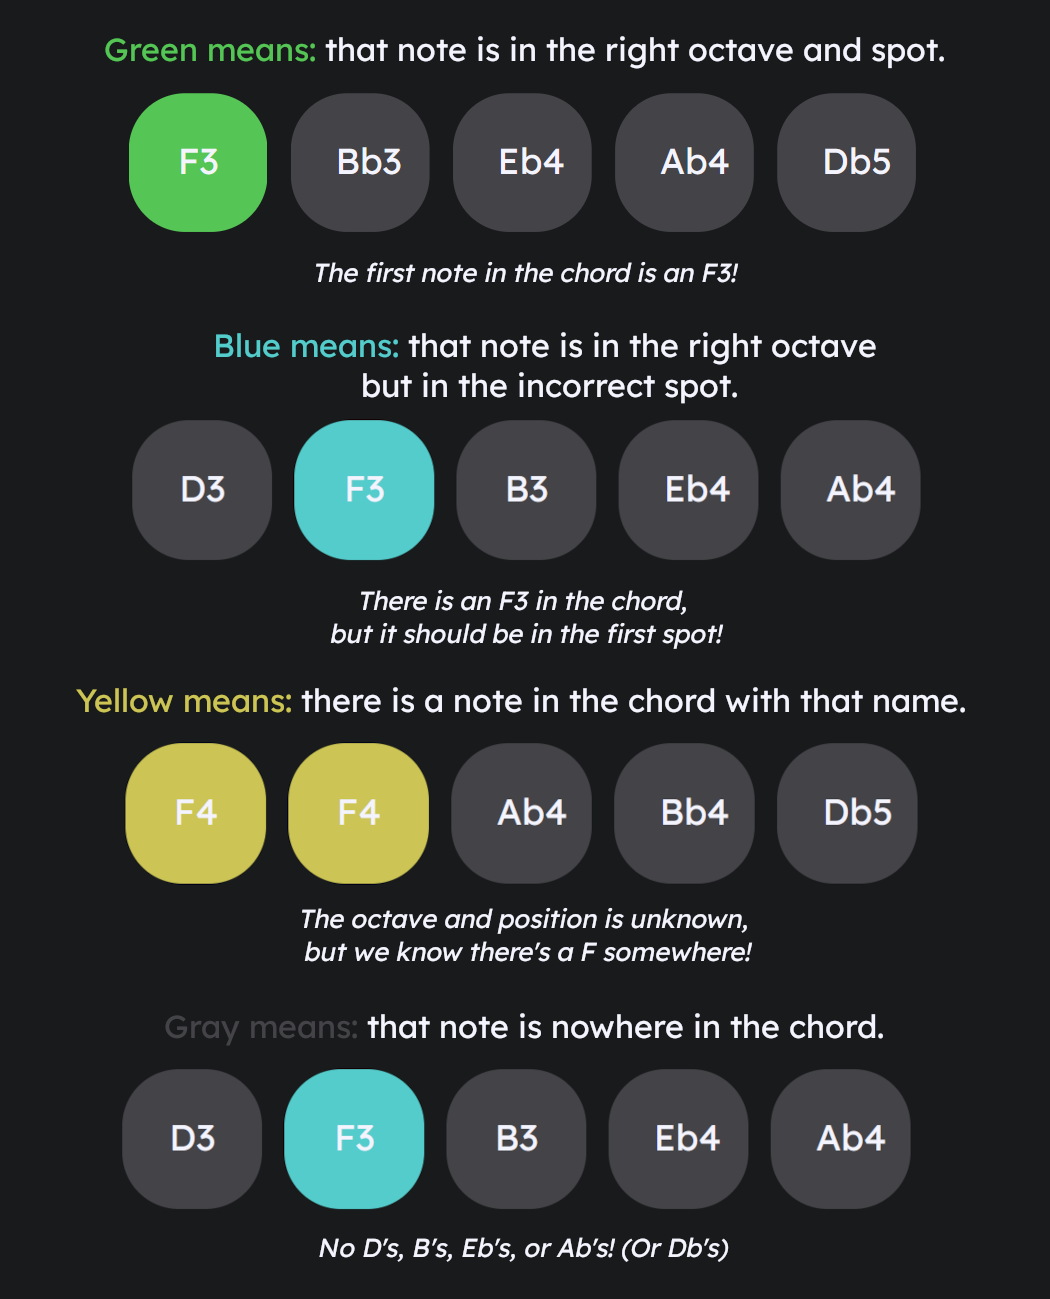
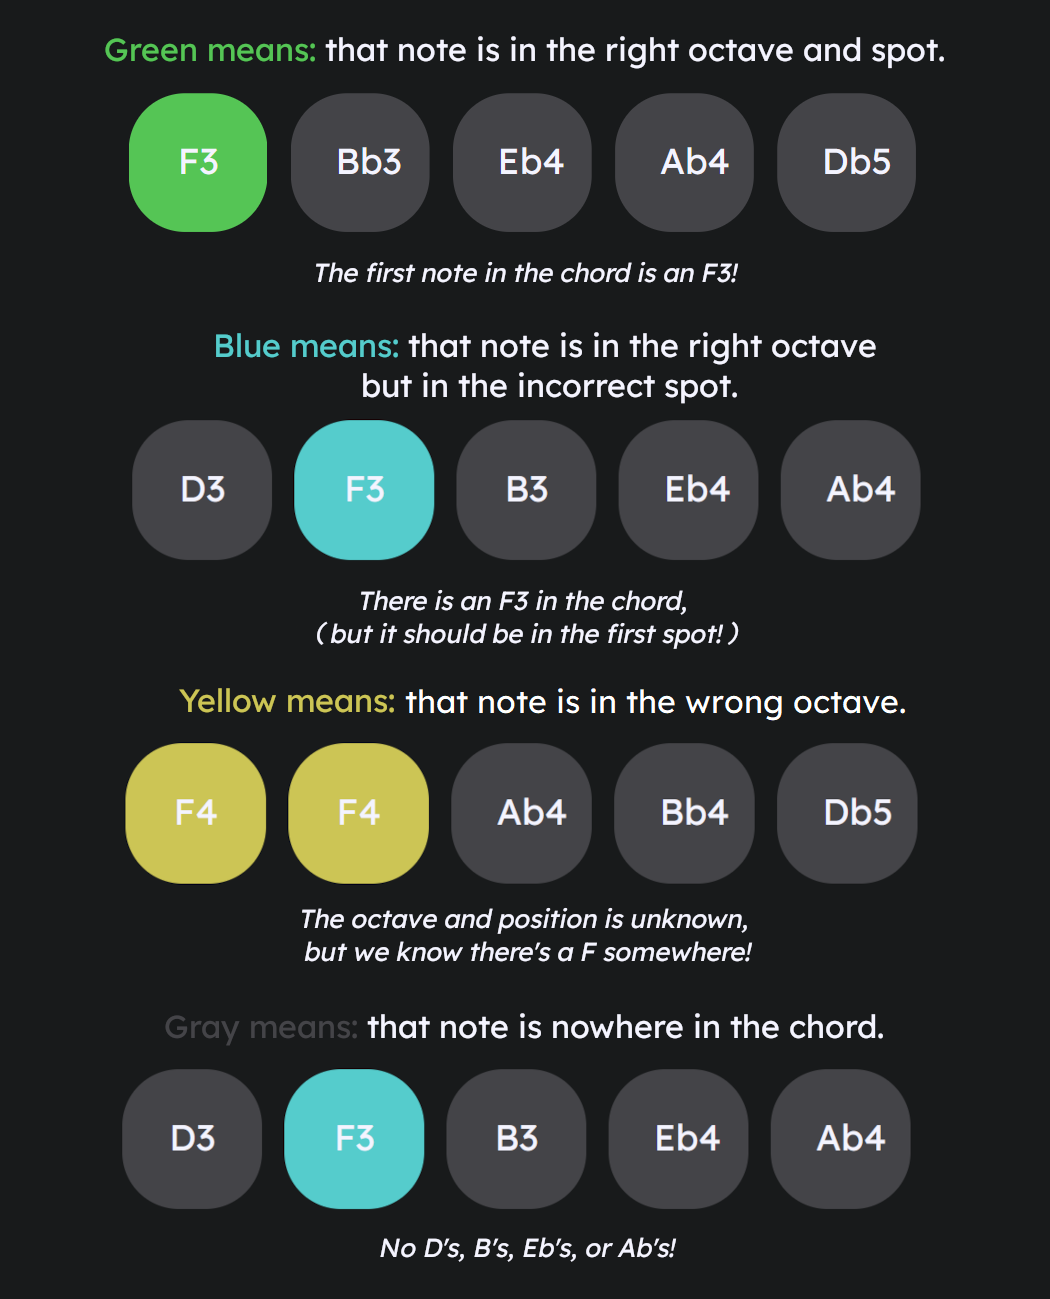
jazz chordle, stylize and improve win screen

Changed region(s): [[0.061, 0.5235, 0.9143, 0.5543], [0.3048, 0.9546, 0.701, 0.9854]]

diff --git a/games/Chordle/scripts/mainScript.js b/games/Chordle/scripts/mainScript.js
@@ -6,24 +6,25 @@ guesses = [
 	[]
 ];
 
+// chords must be written in flats (no Cb or Fb)
 answers = [
-	['F3','C4','G4','A4','E5'],	// Fmaj9 very open voicing - spirited away
-	['B3', 'Bb4', 'Db5', 'Eb5', 'Gb5'],	// Bmaj9 - giant steps
-	['C3', 'G3', 'D4', 'A4', 'E5'],	// stack of fifths
-	['Db3', 'G3', 'F4', 'B4', 'Eb5'],	// Db9b5
-	['E3', 'A3', 'D4', 'G4', 'B4'],	// Em11 - famous so what voicing
-	['Bb3', 'Eb4', 'C5', 'F5', 'A5'],	// Eb7#11
-	['F3', 'A3', 'Eb4', 'Ab4', 'Db5'],	// F7(#9, b13)
-	['Ab3', 'Db4', 'Gb4', 'B4', 'E5'],	// stack of fourths
-	['E3', 'G4', 'B4', 'Eb5', 'Gb5'],	// EmM9 - james bond
-	['Eb3', 'G4', 'Bb4', 'Db5', 'E5'],	// E7b9
-	['Ab4', 'Db5', 'Eb5', 'G5', 'Bb5'], // Am9sus4
-	['Gb3', 'E4', 'Ab4', 'Bb4', 'D5'],	// Gb9#5
-	['Db3', 'Bb4', 'E4', 'G4', 'C5'],	// Petrushka chord but without the bass note cause it's a 6 note chord lol
-	['G3', 'F4', 'A4', 'C5', 'E5'],	// G13 - one of my favorite chords ever	
-	['D4', 'F4', 'Ab4', 'C5', 'E5'], // Dm9b5
-	['C3', 'Bb3', 'E4', 'Ab4', 'D5'],	// C9#5
-	['G3', 'Bb3', 'Db4', 'F4', 'Gb5']	// the jp chord (Gm7b5b9)
+	['F3' ,	'C4' ,	'G4' ,	'A4' ,	'E5' 	,"The famous Fmaj9 from spirited away"],
+	['B3' ,	'Bb4',	'Db5',	'Eb5',	'Gb5' 	,"Bmaj9 - giant steps"],
+	['C3' ,	'G3' , 	'D4' , 	'A4' , 	'E5' 	,"C6/9 - stack of fifths"],
+	['Db3', 'G3' , 	'F4' , 	'B4' , 	'Eb5' 	,"Db9b5"],
+	['E3' ,	'A3' , 	'D4' , 	'G4' , 	'B4' 	,"Em11 - so what voicing"],
+	['Bb3', 'Eb4',	'C5' , 	'F5' , 	'A5' 	,"Eb7#11"],
+	['F3' ,	'A3' , 	'Eb4',	'Ab4',	'Db5' 	,"F7(#9, b13)"],
+	['Ab3', 'Db4',	'Gb4',	'B4' , 	'E5' 	,"Abm11? - Stack of fourths"],
+	['E3' ,	'G4' , 	'B4' , 	'Eb5',	'Gb5' 	,"EmM9 - James Bond"],
+	['Eb3', 'G4' , 	'Bb4',	'Db5',	'E5' 	,"E7b9"],
+	['Ab4', 'Db5',	'Eb5',	'G5' , 	'Bb5' 	,"Am9sus4"],
+	['Gb3', 'E4' , 	'Ab4',	'Bb4',	'D5' 	,"Gb9#5"],
+	['Gb3', 'Bb3',	'E4' , 	'G4' , 	'C5' 	,"C/F# or F#7(b9,#11)- Petrushka chord (but without the C# cause it's actually a 6 note chord lol)"],
+	['G3' ,	'F4' , 	'A4' , 	'C5' , 	'E5' 	,"G13"],
+	['D4' ,	'F4' , 	'Ab4',	'C5' , 	'E5' 	,"Dm9b5"],
+	['C3' ,	'Bb3',	'E4' , 	'Ab4',	'D5' 	,"C9#5"],
+	['G3' ,	'Bb3',	'Db4',	'F4' , 	'Gb5' 	,"Gm7b5b9"]
 	//['', '', '', '', '']	
 ];
 
@@ -36,11 +37,17 @@ var differenceInTime = today.getTime() - dayOfLaunch.getTime();
 var differenceInDays = Math.floor(differenceInTime / (1000 * 3600 * 24));
 
 // if 4 days since launch, choose 4th chord, use modulus to through chords infinitely
-var currentAnswer = differenceInDays % answers.length;
+var currentAnswer = 12
 var x = 0;
 var y = 0;
 
 var COLUMNS = 5;
+
+answer = "";
+let temp_answer;
+temp_answer = answers[currentAnswer].slice();	// shallow copy!
+temp_answer.pop() // remove comment
+answer = temp_answer.toString();
 
 var colorCorrect = '#55c555';
 var colorRightOctave = '#55cccc';
@@ -130,11 +137,12 @@ function submit(){
 					key.style.fill = colorWrong;
 				});
 			}
-		} 
-		
+		}
+
+		let s = guesses[y].toString()
 		// if all correct
-		if(guesses[y].toString() == answers[currentAnswer].toString()){
-			win();
+		if(guesses[y].toString() === answer){
+			win(answers[currentAnswer][5]);
 			y = 99;	// set out of bounds because u won
 		}
 		x = 0;
@@ -142,59 +150,13 @@ function submit(){
 	}
 }
 
-function win(){
-	alert("yay u win");
+function win(comment){
+	alert("You got it! That chord was: " + comment);
 }
 
-document.getElementById("share").addEventListener("click", share);
-function share(){
-	var msg = "";
-	
-	var square_list = document.querySelectorAll('.roundedSquare');
-	var square_array = [...square_list]; // convert to array
-	square_array.forEach(square => {
-		let color = square.style.color;
-		if(color == colorCorrect){
-			msg = msg.concat('gren');
-			alert("gren");
-		}
-		
-		/*
-		switch (square){
-			case colorCorrect:
-				msg = msg.concat('gren');
-				alert("gren");
-				break;
-			default:
-				msg += "gray";
-		}
-		*/
-	});
-	alert(msg);
 
-	
-	/*
-	document.querySelectorAll('.roundedSquare').forEach(item => {
-		if(item.style.background == colorCorrect){
-			alert("green");
-		}
-		
-		
-		switch (item){
-			case colorCorrect:
-				msg += 'gren';
-				alert("gren");
-				break;
-			default:
-				msg += "gray";
-		}
-	});
-	*/
-	
-}
-
-document.getElementById("flip").addEventListener("click", flip);
-function flip(){
+document.getElementById("respell").addEventListener("click", respell);
+function respell(){
 	var note = document.getElementById((y + 1) + '-' + (x)).innerText;
 	// ex: note = Ab4 -> noteName = Ab; octave = 4;
 	var noteName = note.slice(0, -1);
@@ -214,4 +176,52 @@ function flip(){
 	else {
 		document.getElementById((y + 1) + '-' + (x)).innerText = result[0] + octave;
 	}
+}
+
+
+document.getElementById("share").addEventListener("click", share);
+function share(){
+	var msg = "";
+
+	var square_list = document.querySelectorAll('.roundedSquare');
+	var square_array = [...square_list]; // convert to array
+	square_array.forEach(square => {
+		let color = square.style.color;
+		if(color == colorCorrect){
+			msg = msg.concat('gren');
+			alert("gren");
+		}
+
+		/*
+		switch (square){
+			case colorCorrect:
+				msg = msg.concat('gren');
+				alert("gren");
+				break;
+			default:
+				msg += "gray";
+		}
+		*/
+	});
+	alert(msg);
+
+
+	/*
+	document.querySelectorAll('.roundedSquare').forEach(item => {
+		if(item.style.background == colorCorrect){
+			alert("green");
+		}
+
+
+		switch (item){
+			case colorCorrect:
+				msg += 'gren';
+				alert("gren");
+				break;
+			default:
+				msg += "gray";
+		}
+	});
+	*/
+
 }

diff --git a/games/Chordle/index.html b/games/Chordle/index.html
@@ -5,7 +5,12 @@
 		<meta name="viewport" content="width=device-width, initial-scale=1">
 		<link href="styles/reset.css" rel="stylesheet"/>
 		<link href="styles/mainStyle.css" rel="stylesheet"/>
-		
+
+		<link rel="preconnect" href="https://fonts.googleapis.com">
+		<link rel="preconnect" href="https://fonts.gstatic.com" crossorigin>
+		<link href="https://fonts.googleapis.com/css2?family=Lexend+Deca:wght@100;200;300;400;500;600;700;800;900&display=swap" rel="stylesheet">
+
+
 		<link rel="icon" href="media/logo.png">
 		<title>Jazz Chordle</title>
 		<!-- <link href="https://cdn.jsdelivr.net/npm/bootstrap@5.0.2/dist/css/bootstrap.min.css" rel="stylesheet" integrity="sha384-EVSTQN3/azprG1Anm3QDgpJLIm9Nao0Yz1ztcQTwFspd3yD65VohhpuuCOmLASjC" crossorigin="anonymous"> -->
@@ -16,7 +21,7 @@
         <h1>Jazz Chordle</h1>
     </header>
 		
-	<div id="piano">
+	<div id="piano" style="overflow-x: auto">
 		<svg
 			width="507"
 			height="121"
@@ -341,7 +346,7 @@
 		
 	<div id="buttons">
 		<button type="button" id="backspace">Backspace</button>
-		<button type="button" id="flip">Flip</button>
+		<button type="button" id="respell">Respell</button>
 		<button type="button" id="submit">Submit</button>
 	</div>
 	
@@ -377,13 +382,24 @@
 	</div>
 	
 	<div id="info">
-		<button type="button" id="share">Share</button>
+	<!--<button type="button" id="share">Share</button>-->
 		<p>
-			Inspired by the <a href="https://www.chordle.synthase.cc/">original chordle</a>. Chords are ordered from low to high. All notes are unique pitch classes, so if you find a D3 in the chord, you know there isn't a D4 or D5 in the chord. You do not need to spell the chord correctly, each note just needs to be in the right octave and position.
+			Inspired by the <a href="https://www.chordle.synthase.cc/">original chordle</a>. Each chord has 5 unique pitches, ordered from lowest to highest. You do not need to spell the chord correctly (enharmonics don't matter). Each note just needs to be in the right octave and position.
 		</p>
 		<img src="media/rules.png">
+		<img src="/media/cat.png" style="width:50px;height:auto;margin-top:20px">
+		<p class="copyright">Site by amaice | <a href="https://amaice.github.io">amaice.github.io</a></p>
 	</div>
-		
+
+<!--	&lt;!&ndash;win pop up&ndash;&gt;-->
+<!--	<div class='cookie-banner'>-->
+<!--		<p>-->
+<!--			This website doesn't use <a class="cookie-link" href='https://www.youtube.com/watch?v=dQw4w9WgXcQ'>cookies</a>, so this will pop up every time.-->
+<!--			<button class="close">x</button>-->
+<!--		</p>-->
+<!--	</div>-->
+
+
 	<!-- <script src="https://cdn.jsdelivr.net/npm/bootstrap@5.0.2/dist/js/bootstrap.bundle.min.js" integrity="sha384-MrcW6ZMFYlzcLA8Nl+NtUVF0sA7MsXsP1UyJoMp4YLEuNSfAP+JcXn/tWtIaxVXM" crossorigin="anonymous"></script> -->
     <script src="scripts/mainScript.js"></script>
 </body>

diff --git a/games/Chordle/styles/mainStyle.css b/games/Chordle/styles/mainStyle.css
@@ -6,38 +6,63 @@
 html, body {
 	background-color:rgb(24, 26, 27) !important;
 	color:rgb(244, 244, 255) !important;
-	font-family:LexendDeca;
+
+	font-family: LexendDeca, sans-serif;
+	font-optical-sizing: auto;
+	font-weight: 300;
+	font-size: 20px;
+
+
+	max-width:600px;
+	align-content: center;
+	margin: auto
+}
+
+header{
+	width:100%;
+	align-content: center;
+	margin-bottom: 32px;
 }
 
 h1{
+	background:black;
 	font-size:40px;
 	text-align:center;
 
-	margin-top: 16px;
-	margin-bottom: 16px;
-	margin-right: 16px;
-	margin-left: 16px;
+	font-weight: 600;
+	padding: 16px;
 }
 
 button {
-	font-size: 20px;
+	font-family: LexendDeca, sans-serif;
+	font-size:20px;
+
+}
+
+.copyright{
+	font-size:16px;!important;
+}
+
+.copyright > a{
+	color:rgb(37, 150, 190) !important;
+
 }
 
 #info > p,
 #info > button {
-	font-size:20px;
 	text-align:center;
 	
 	margin-bottom: 16px;
-	margin-right: 16px;
-	margin-left: 16px;
+	margin-right: 32px;
+	margin-left: 32px;
 }
 
 #info > img {
 	display: block;
 	margin-left: auto;
 	margin-right: auto;
-	width: 50%;
+	width:100%;
+	max-width:600px;
 }
 
 rect:hover{
@@ -51,7 +76,7 @@ rect:active{
 .roundedCorner {
 	border-radius: 25px;
 	background: #28292a;
-	padding: 20px;
+	padding: 20px 10px;
 	color:rgb(244, 244, 255) !important;
 	text-align:center;
 }
@@ -85,5 +110,31 @@ rect:active{
 	margin-bottom: 16px;
 	margin-right: 16px;
 	margin-left: 16px;
+}
+
+
+
+/* POPUP */
+
+.cookie-banner {
+	position: fixed;
+	bottom: 2vw;
+	left: 20vw;
+	width: 60vw;
+	padding: 5px 5px;
+	background-color: #eee;
+	border-radius: 5px;
+	color: black;
+	text-align: center;
+	align-items: center;
+	z-index: 1000;
+}
+
+.close {
+	height: 25px;
+	width: 25px;
+	background-color: #777;
+	color: white;
+	border-radius: 2px;
 }
 
